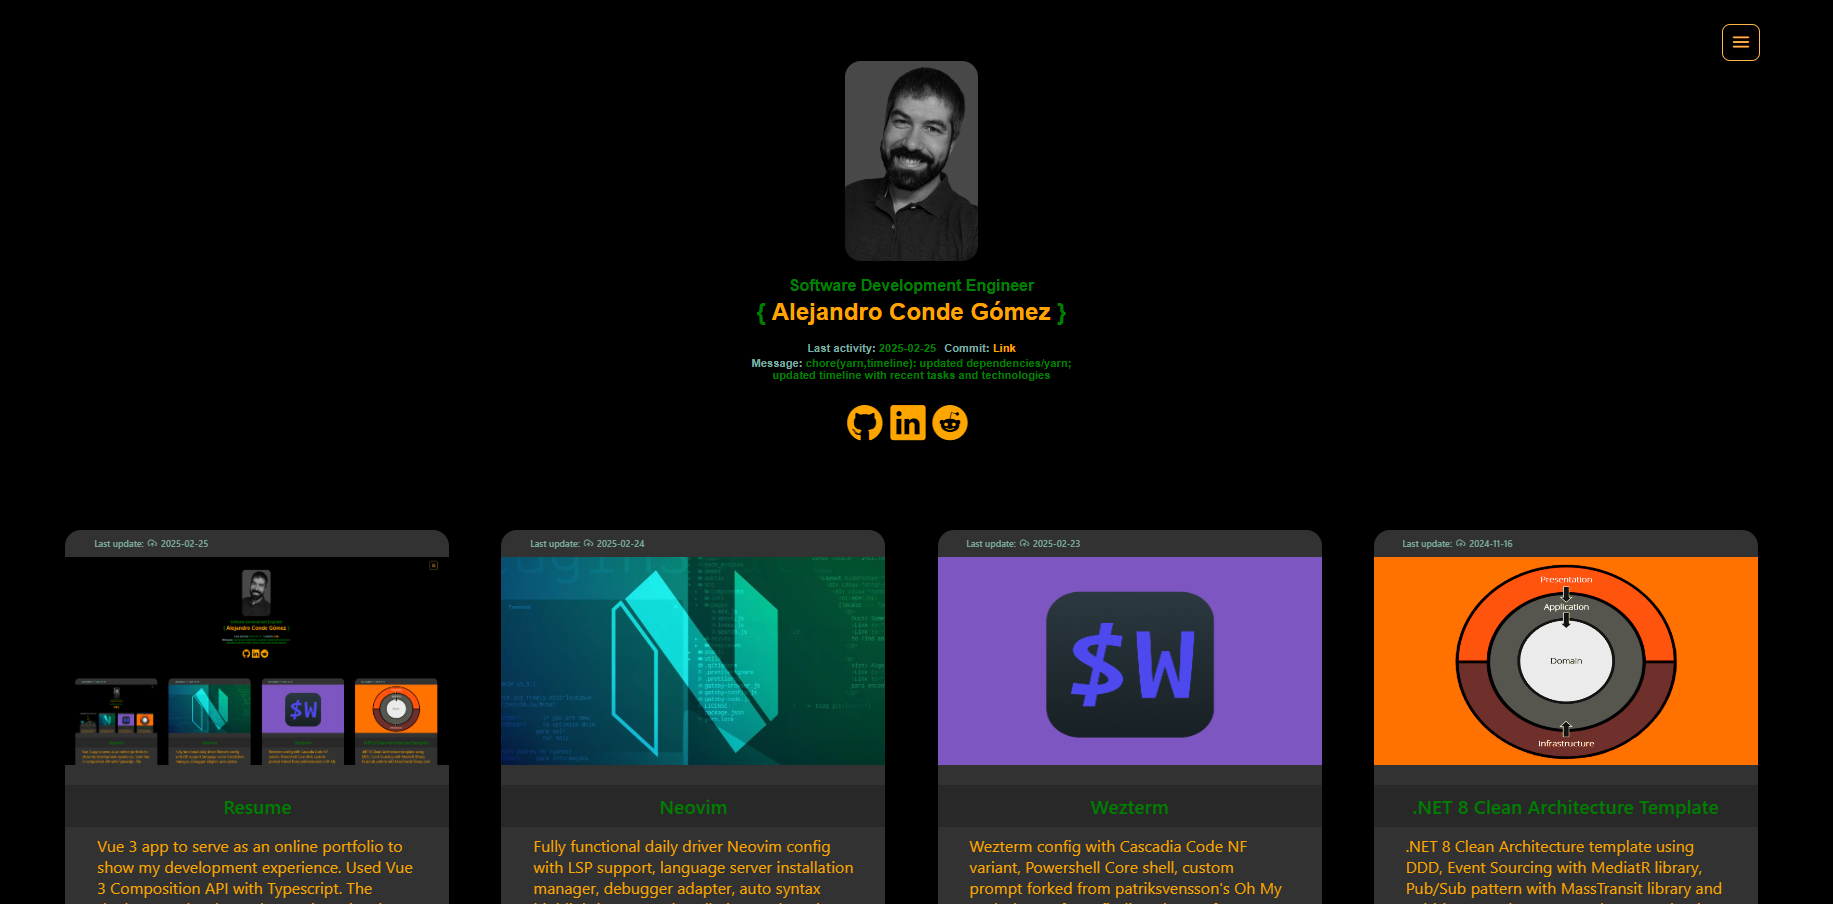
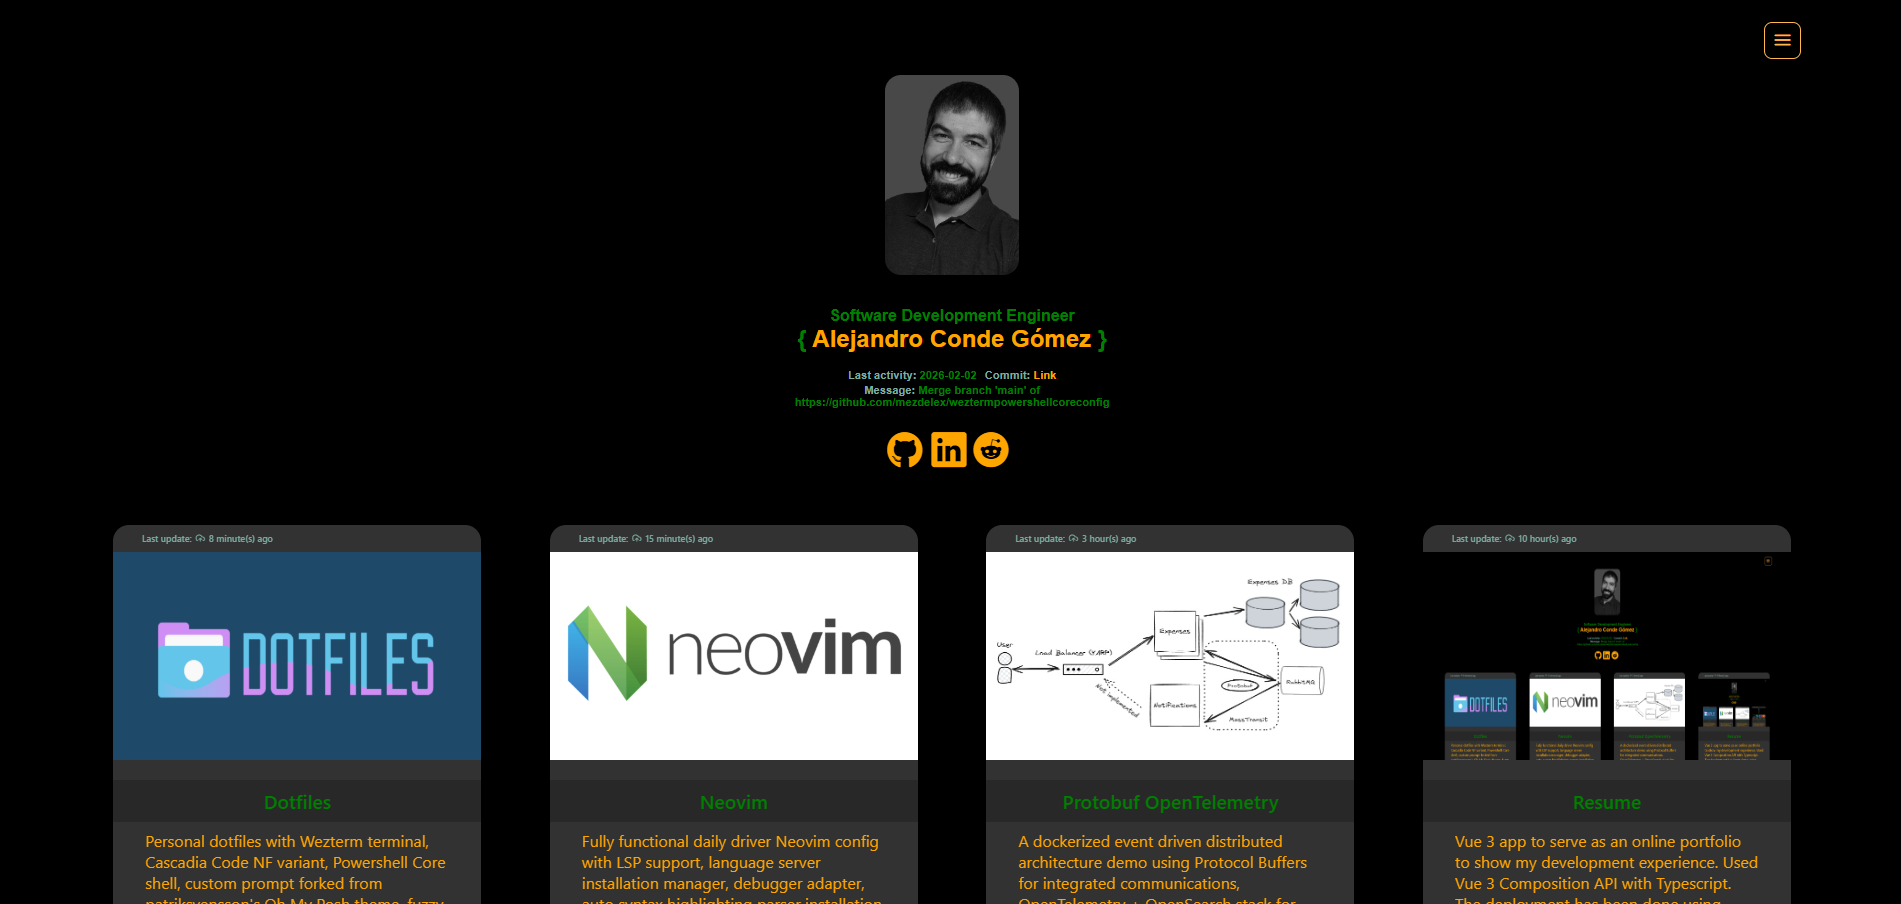
chore(projects): add lazysql to dotfiles info and update resume image

diff --git a/src/data/projectsData.ts b/src/data/projectsData.ts
@@ -109,7 +109,7 @@ export default [
     repo: "https://github.com/mezdelex/dotfiles",
     app: "https://github.com/mezdelex/dotfiles",
     description:
-      "Personal dotfiles with Wezterm terminal, Cascadia Code NF variant, Powershell Core shell, custom prompt forked from patriksvensson's Oh My Posh theme, fuzzy finding via PSFzf, autocompletion via PSReadLine, fast directory navigation via zoxide, icon glyphs via Terminal Icons, Lazygit, Lazydocker, k9s, Yazi TUI file manager, Flow Launcher...",
+      "Personal dotfiles with Wezterm terminal, Cascadia Code NF variant, Powershell Core shell, custom prompt forked from patriksvensson's Oh My Posh theme, fuzzy finding via PSFzf, autocompletion via PSReadLine, fast directory navigation via zoxide, icon glyphs via Terminal Icons, Lazygit, Lazydocker, Lazysql, k9s, Yazi TUI file manager, Flow Launcher...",
   },
   {
     id: "neovim",
